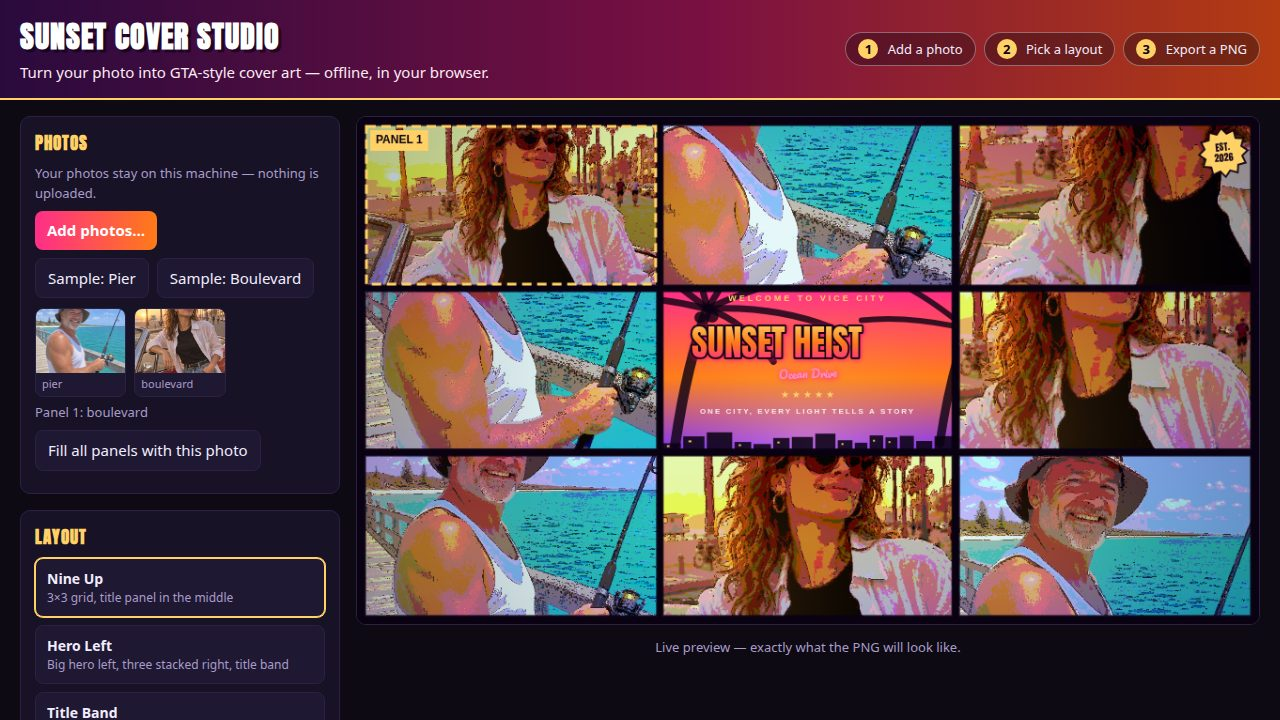
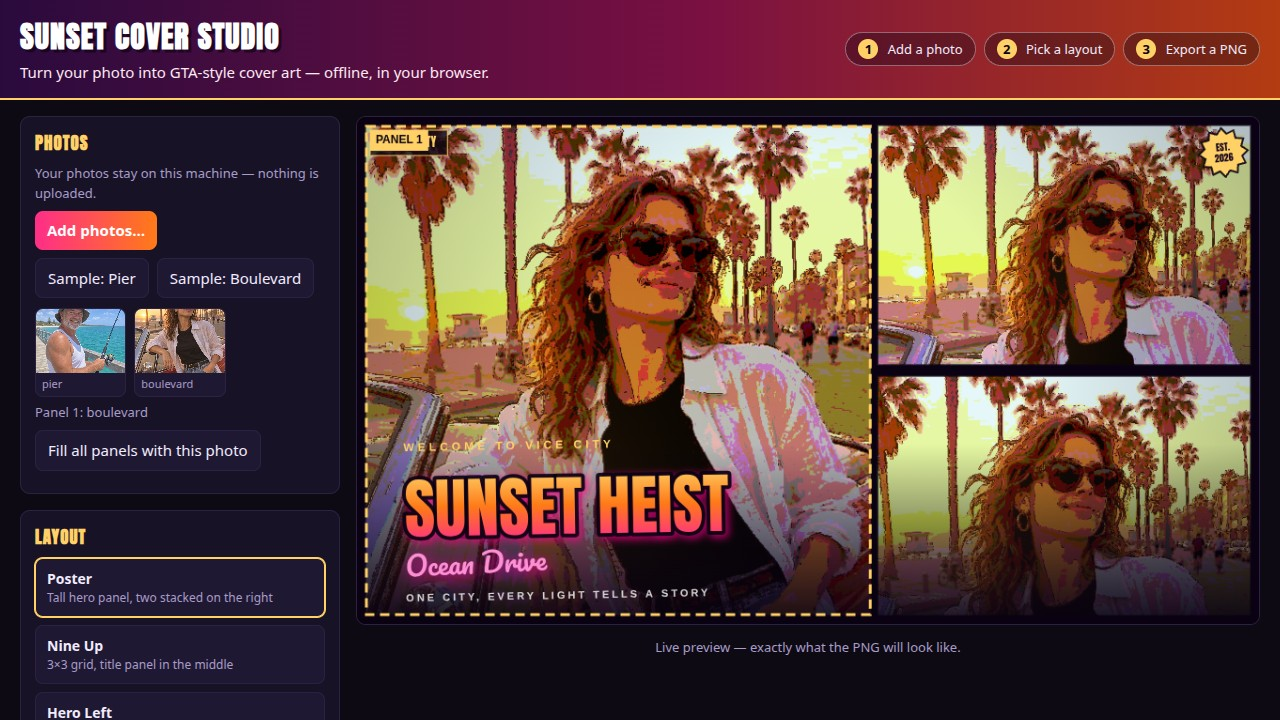
Sunset Cover Studio v3: neat by construction
Face-safe, one-subject covers: gentle face-anchored crops (zoom
1.0-1.15x, focus point per sample photo) replace the 1.7x varied crops
that landed on torsos and cut faces in half; screenshot covers use one
hero photo per cover, never two different people in one grid; Poster is
the tidy default layout (was Nine Up); Poster first in the layout list.
Also fixed: cover shots paint at the viewport size (v3 caught the stage
taller than the viewport, clipping the title), and the SUNSET CITY tag
moved to the top-left so it never collides with the EST. 2026 badge.

diff --git a/app/src/render.js b/app/src/render.js
@@ -11,6 +11,15 @@
 // its own poster band (gradient sky, palm and skyline silhouettes, eyebrow,
 // gradient title, script subtitle, stars, tagline) instead of an overlay.
 export const LAYOUTS = {
+  poster: {
+    label: 'Poster',
+    hint: 'Tall hero panel, two stacked on the right',
+    slots: [
+      { x: 0.0, y: 0.0, w: 0.575, h: 1.0 },
+      { x: 0.575, y: 0.0, w: 0.425, h: 0.495 },
+      { x: 0.575, y: 0.505, w: 0.425, h: 0.495 },
+    ],
+  },
   nine: {
     label: 'Nine Up',
     hint: '3×3 grid, title panel in the middle',
@@ -48,15 +57,6 @@ export const LAYOUTS = {
       { x: 0.5, y: 0.37, w: 0.5, h: 0.35 },
     ],
     titleSlot: { x: 0.0, y: 0.73, w: 1.0, h: 0.27 },
-  },
-  poster: {
-    label: 'Poster',
-    hint: 'Tall hero panel, two stacked on the right',
-    slots: [
-      { x: 0.0, y: 0.0, w: 0.575, h: 1.0 },
-      { x: 0.575, y: 0.0, w: 0.425, h: 0.495 },
-      { x: 0.575, y: 0.505, w: 0.425, h: 0.495 },
-    ],
   },
   grid: {
     label: 'Four Up',
@@ -171,17 +171,76 @@ export function defaultPanels(layoutId) {
   return LAYOUTS[layoutId].slots.map(() => blankPanel());
 }
 
-// Deterministic per-panel crop variation, so filling every panel with one
-// photo still shows a different crop in each — the way the best covers reuse
-// one subject. Index i of the panel decides the crop, so it is stable.
+// The face anchor of each sample photo, as fractions of the photo: the
+// point every crop must keep in frame. Boulevard: the woman's face, upper
+// centre; pier: the man's face, upper centre-left. A photo the app does not
+// know gets the generic anchor (upper middle, where a face usually sits).
+export const PHOTO_FOCUS = {
+  boulevard: { x: 0.52, y: 0.2 },
+  pier: { x: 0.42, y: 0.22 },
+};
+export const DEFAULT_FOCUS = { x: 0.5, y: 0.35 };
+
+// A face-safe crop for one panel. v2's varied crops zoomed to 1.7x and panned
+// up to 0.6, which landed on torsos and cut faces in half — the cover read
+// as a jumble. v3 keeps the zoom gentle (1.0–1.15x) and computes the pan so
+// the photo's focus lands near the panel centre, with only a small
+// deterministic offset per panel for variety. The face can never be panned
+// out of frame: the pan is clamped, and at the clamp the focus still sits
+// inside the panel (upper third for a portrait photo in a wide panel).
+export function focusCrop(i, focus, imgW, imgH, rectW, rectH) {
+  const zooms = [1.0, 1.06, 1.12, 1.03, 1.09, 1.0, 1.15, 1.06];
+  const offs = [
+    [0, 0], [0.08, -0.06], [-0.08, 0.06], [0.05, 0.08],
+    [-0.05, -0.08], [0.1, 0], [0, -0.1], [-0.1, 0.05],
+  ];
+  const zoom = zooms[i % zooms.length];
+  const off = offs[i % offs.length];
+  const scale = Math.max(rectW / imgW, rectH / imgH) * zoom;
+  const dw = imgW * scale;
+  const dh = imgH * scale;
+  const ovX = Math.max(0, (dw - rectW) / 2);
+  const ovY = Math.max(0, (dh - rectH) / 2);
+  // Displayed focus x = (rectW - dw) / 2 + panX * ovX + focus.x * dw; solve
+  // for the pan that puts it at the panel centre plus the small offset.
+  const panX = ovX > 0
+    ? Math.max(-1, Math.min(1, (rectW / 2 + off[0] * rectW - (rectW - dw) / 2 - focus.x * dw) / ovX))
+    : 0;
+  const panY = ovY > 0
+    ? Math.max(-1, Math.min(1, (rectH / 2 + off[1] * rectH - (rectH - dh) / 2 - focus.y * dh) / ovY))
+    : 0;
+  return { zoom, panX, panY };
+}
+
+// A gentle crop when no focus is known: near-centred, zoom 1.0–1.12x, pans
+// within 0.12, so a panel never jumps to an unrelated detail of the photo.
 export function varyCrop(i) {
-  const zooms = [1.0, 1.35, 1.7, 1.2, 1.55, 1.1, 1.45, 1.25];
+  const zooms = [1.0, 1.06, 1.12, 1.03, 1.09, 1.0, 1.12, 1.06];
   const pans = [
-    [0, 0], [-0.55, -0.3], [0.5, 0.35], [0.3, -0.55],
-    [-0.4, 0.5], [0.6, 0.1], [-0.15, -0.6], [0.15, 0.6],
+    [0, 0], [0.1, -0.08], [-0.1, 0.08], [0.06, 0.1],
+    [-0.06, -0.1], [0.12, 0], [0, -0.12], [-0.12, 0.06],
   ];
   const p = pans[i % pans.length];
   return { zoom: zooms[i % zooms.length], panX: p[0], panY: p[1] };
+}
+
+// Re-crop every panel that holds a photo, face-safe, for a cover of w x h:
+// each panel keeps its photo's focus in frame, so a multi-panel cover reads
+// as one deliberate composition of one subject instead of a jumble of
+// unrelated crops. Photos are looked up by name for their focus anchor.
+export function cropPanels(state, w, h) {
+  const rects = slotRects(state, w, h);
+  (state.panels || []).forEach((panel, i) => {
+    if (!panel.photoId) return;
+    const photo = state.photos.get(panel.photoId);
+    if (!photo || !photo.img) return;
+    const key = (photo.name || '').replace(/\.[^.]+$/, '');
+    const focus = PHOTO_FOCUS[key] || DEFAULT_FOCUS;
+    const crop = focusCrop(i, focus, photo.img.width, photo.img.height, rects[i].w, rects[i].h);
+    panel.zoom = crop.zoom;
+    panel.panX = crop.panX;
+    panel.panY = crop.panY;
+  });
 }
 
 // ---- comic-art treatment ---------------------------------------------------
@@ -737,7 +796,9 @@ function paintBadge(ctx, w, h, frame) {
   ctx.restore();
 }
 
-// The small corner tag every overlay-caption cover carries.
+// The small corner tag every overlay-caption cover carries. Top LEFT: the
+// top right belongs to the EST. 2026 starburst, and the two must never
+// overlap (v3 caught them colliding on the poster layout).
 function paintCityTag(ctx, w, h, frame) {
   const tagSize = Math.max(13, Math.round(h * 0.022));
   const text = 'SUNSET CITY';
@@ -746,7 +807,7 @@ function paintCityTag(ctx, w, h, frame) {
   const tw = ctx.measureText(text).width;
   const padX = Math.round(tagSize * 0.9);
   const padY = Math.round(tagSize * 0.55);
-  const bx = w - frame - tw - padX * 2;
+  const bx = frame + Math.round(h * 0.012);
   const by = frame + Math.round(h * 0.012);
   ctx.fillStyle = 'rgba(10,2,18,0.78)';
   ctx.fillRect(bx, by, tw + padX * 2, tagSize + padY * 2);

diff --git a/app/src/shots.js b/app/src/shots.js
@@ -3,7 +3,7 @@
 // ?shot=cover shows the cover alone, edge to edge. window.__shotReady is set
 // once the cover is painted, so a screenshot never catches a half-drawn page.
 
-import { LAYOUTS, GRADES, defaultPanels, drawCover, varyCrop } from './render.js';
+import { LAYOUTS, GRADES, EXPORT_SIZES, defaultPanels, drawCover, cropPanels } from './render.js';
 
 function imageMap(state) {
   return new Map([...state.photos].map(([id, p]) => [id, p.img]));
@@ -22,47 +22,57 @@ async function paintWhenFontsReady(paint) {
   ready();
 }
 
+// The preview canvas renders at half the export size on its long side.
+function previewSizeFor(sizeId) {
+  const def = EXPORT_SIZES.find((s) => s.id === sizeId) || EXPORT_SIZES[0];
+  const scale = 960 / Math.max(def.w, def.h);
+  return { w: Math.round(def.w * scale), h: Math.round(def.h * scale) };
+}
+
 export async function runShot(shot, query, api) {
   const { state, loadSample, renderPreview, syncUI } = api;
   const caption = query.get('caption') ?? 'Sunset Heist';
   const subtitle = query.get('sub') ?? 'Ocean Drive';
-  const layout = query.get('layout') ?? 'nine';
+  // The default cover is the tidiest layout: one strong hero, two calm
+  // panels, the caption over a scrim — never the busy 3x3 grid.
+  const layout = query.get('layout') ?? 'poster';
   const grade = query.get('grade') ?? 'sunset';
   const style = query.get('style') ?? 'comic';
+  const size = query.get('size') ?? '1920x1080';
+  const [sw, sh] = size.split('x').map(Number);
+  // The cover is painted at the viewport's own pixels (capped at 1600 wide),
+  // full bleed: the screenshot shows exactly what is painted, so the crop
+  // and the paint must use the same size.
+  const coverW = Math.min(window.innerWidth, 1600);
+  const coverH = sw > 0 && sh > 0 ? Math.round((coverW * sh) / sw) : 720;
+  const viewW = shot === 'cover' ? coverW : previewSizeFor(size).w;
+  const viewH = shot === 'cover' ? coverH : previewSizeFor(size).h;
 
-  // Load the two sample photos, then place them on purpose: the sunset
-  // boulevard shot leads, the pier fills the smaller panels, every panel
-  // showing a different crop of its photo.
+  // Load both sample photos (the tray shows both), but a cover is ONE
+  // subject: every panel shows the boulevard hero, face-safe cropped, so the
+  // composition reads as one deliberate poster instead of a jumble of two
+  // different people at random crops. v2 mixed boulevard and pier across the
+  // grid and the user called it messy — v3 never mixes subjects in a cover.
   const pierId = await loadSample('pier');
   const blvdId = await loadSample('boulevard');
-  state.layout = LAYOUTS[layout] ? layout : 'nine';
+  void pierId;
+  state.layout = LAYOUTS[layout] ? layout : 'poster';
   state.grade = GRADES[grade] ? grade : 'sunset';
   state.artStyle = style;
   state.title = caption;
   state.subtitle = subtitle;
   state.panels = defaultPanels(state.layout);
-  const fill = [blvdId, pierId, blvdId, pierId, blvdId, pierId, blvdId, pierId];
-  state.panels.forEach((p, i) => {
-    p.photoId = fill[i % fill.length];
-    const crop = varyCrop(i);
-    p.zoom = crop.zoom;
-    p.panX = crop.panX;
-    // The boulevard photo is portrait: bias its crop to the top (positive
-    // panY shifts the photo down, revealing its top), so the subject's face
-    // stays in the landscape panels.
-    p.panY = p.photoId === blvdId ? 0.5 - (i % 3) * 0.15 : crop.panY;
-  });
+  state.panels.forEach((p) => { p.photoId = blvdId; });
+  cropPanels(state, viewW, viewH);
   state.selected = 0;
 
   if (shot === 'cover') {
     document.body.classList.add('shot-cover');
-    const size = query.get('size') ?? '1920x1080';
-    const [w, h] = size.split('x').map(Number);
-    if (w > 0 && h > 0) state.size = `${w}x${h}`;
+    if (sw > 0 && sh > 0) state.size = `${sw}x${sh}`;
     const stage = document.getElementById('stage');
     // Paint the cover at the viewport's own pixels, full bleed.
-    const vw = Math.min(window.innerWidth, 1600);
-    const vh = Math.round((vw * h) / w);
+    const vw = coverW;
+    const vh = coverH;
     stage.width = vw;
     stage.height = vh;
     stage.style.width = '100vw';

diff --git a/app/src/main.js b/app/src/main.js
@@ -5,7 +5,7 @@
 
 import {
   LAYOUTS, GRADES, ART_STYLES, EXPORT_SIZES,
-  blankPanel, defaultPanels, drawCover, slotRects, varyCrop,
+  blankPanel, defaultPanels, drawCover, slotRects, cropPanels,
 } from './render.js';
 import { runShot } from './shots.js';
 
@@ -15,7 +15,10 @@ const stageCtx = stage.getContext('2d');
 
 let photoSeq = 0;
 const state = {
-  layout: 'nine',
+  // The default is the tidiest layout: one strong hero, two calm panels, the
+  // caption over a scrim. A busy 3x3 grid is an option, never the first thing
+  // anyone sees.
+  layout: 'poster',
   grade: 'sunset',
   gradeStrength: 0.85,
   artStyle: 'comic',
@@ -29,25 +32,22 @@ const state = {
   titleColor: 'white',
   photos: new Map(), // id -> { id, name, img }
   photoOrder: [], // ids, tray order
-  panels: defaultPanels('nine'),
+  panels: defaultPanels('poster'),
   selected: 0,
 };
 
-// Fill every panel that is still empty with one photo, each panel showing a
-// different crop of it (varyCrop), so a cover is full from the first click.
+// Fill every panel that is still empty with one photo, each panel face-safe
+// cropped (cropPanels), so a cover is full from the first click and reads as
+// one composition, not a jumble of crops.
 function autoFillAll() {
   const heroId = state.panels.find((p) => p.photoId)?.photoId
     || state.photoOrder[0] || null;
   if (!heroId) return;
-  state.panels.forEach((p, i) => {
-    if (!p.photoId) {
-      p.photoId = heroId;
-      const crop = varyCrop(i);
-      p.zoom = crop.zoom;
-      p.panX = crop.panX;
-      p.panY = crop.panY;
-    }
+  state.panels.forEach((p) => {
+    if (!p.photoId) p.photoId = heroId;
   });
+  const { w, h } = previewSize();
+  cropPanels(state, w, h);
 }
 
 function sizeDef() {
@@ -192,13 +192,9 @@ function buildOptionButtons() {
       const heroPhoto = oldPhotos[0] || oldPhotos.find(Boolean) || null;
       state.panels.forEach((p, i) => {
         p.photoId = oldPhotos[i] || heroPhoto;
-        if (p.photoId && !oldPhotos[i]) {
-          const crop = varyCrop(i);
-          p.zoom = crop.zoom;
-          p.panX = crop.panX;
-          p.panY = crop.panY;
-        }
       });
+      const { w, h } = previewSize();
+      cropPanels(state, w, h);
       state.selected = 0;
       syncOptionButtons();
       syncPanelControls();
@@ -398,13 +394,9 @@ function wireControls() {
   $('fill-all').addEventListener('click', () => {
     const pid = state.panels[state.selected]?.photoId;
     if (!pid) return;
-    state.panels.forEach((p, i) => {
-      p.photoId = pid;
-      const crop = varyCrop(i);
-      p.zoom = crop.zoom;
-      p.panX = crop.panX;
-      p.panY = crop.panY;
-    });
+    state.panels.forEach((p) => { p.photoId = pid; });
+    const { w, h } = previewSize();
+    cropPanels(state, w, h);
     renderPreview();
   });
   $('zoom').addEventListener('input', (evt) => {

diff --git a/README.md b/README.md
@@ -12,13 +12,20 @@ in your browser. Made for the [Make GTA 6 Cover Art](https://make.fun/bounty/gta
 - **Any photo:** load your own photos from your machine (or drag and drop them),
   crop and position each one by dragging and scrolling, and fill several panels
   with one photo or several.
-- **Multi-panel covers:** seven layouts — Nine Up (3×3 with a title panel in
-  the middle), Hero Left (big hero + three stacked + title band), Title Band
-  (five photos above a full-width title band), Poster (tall hero + two
-  stacked), Four Up (2×2), Hero Strip (wide hero + two below), Split (two
-  tall panels). Layouts with a title band paint the caption as its own poster
-  strip: sunset gradient, palm and skyline silhouettes, eyebrow, gradient
-  title, script subtitle, star row and tagline.
+- **Multi-panel covers:** seven layouts — Poster (tall hero + two
+  stacked, the tidy default), Hero Left (big hero + three stacked + title
+  band), Title Band (five photos above a full-width title band), Nine Up
+  (3×3 with a title panel in the middle), Four Up (2×2), Hero Strip (wide
+  hero + two below), Split (two tall panels). Layouts with a title band paint
+  the caption as its own poster strip: sunset gradient, palm and skyline
+  silhouettes, eyebrow, gradient title, script subtitle, star row and
+  tagline.
+- **Neat by construction:** a cover is one subject, not a jumble. Every
+  panel keeps its photo's face in frame: crops are gentle (1.0–1.15x zoom)
+  and face-anchored, so a portrait photo in a wide panel still shows the
+  whole face, and a cover never mixes two different people across its
+  panels. Fill-all and the screenshot covers use one hero photo; the
+  other sample stays in the tray for the editor.
 - **Comic art:** three art styles — Comic (the photo posterised into ink art
   with edge inking, the GTA loading-screen look), Photo (grade only) and
   Halftone (comic art + print dots). The treatment is painted on canvas, so
